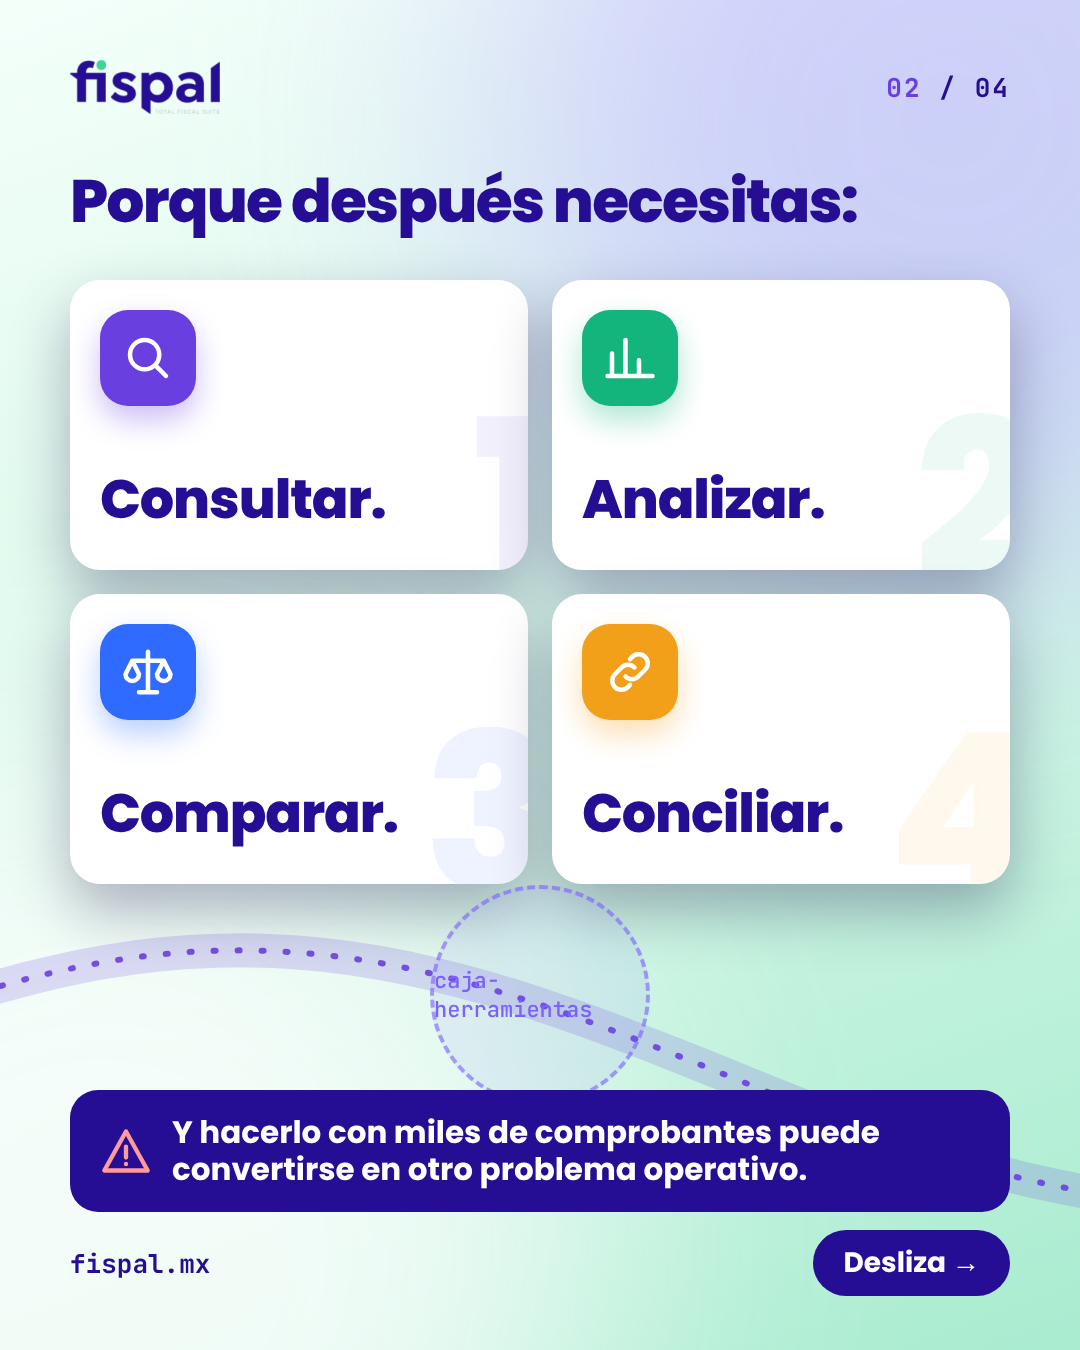
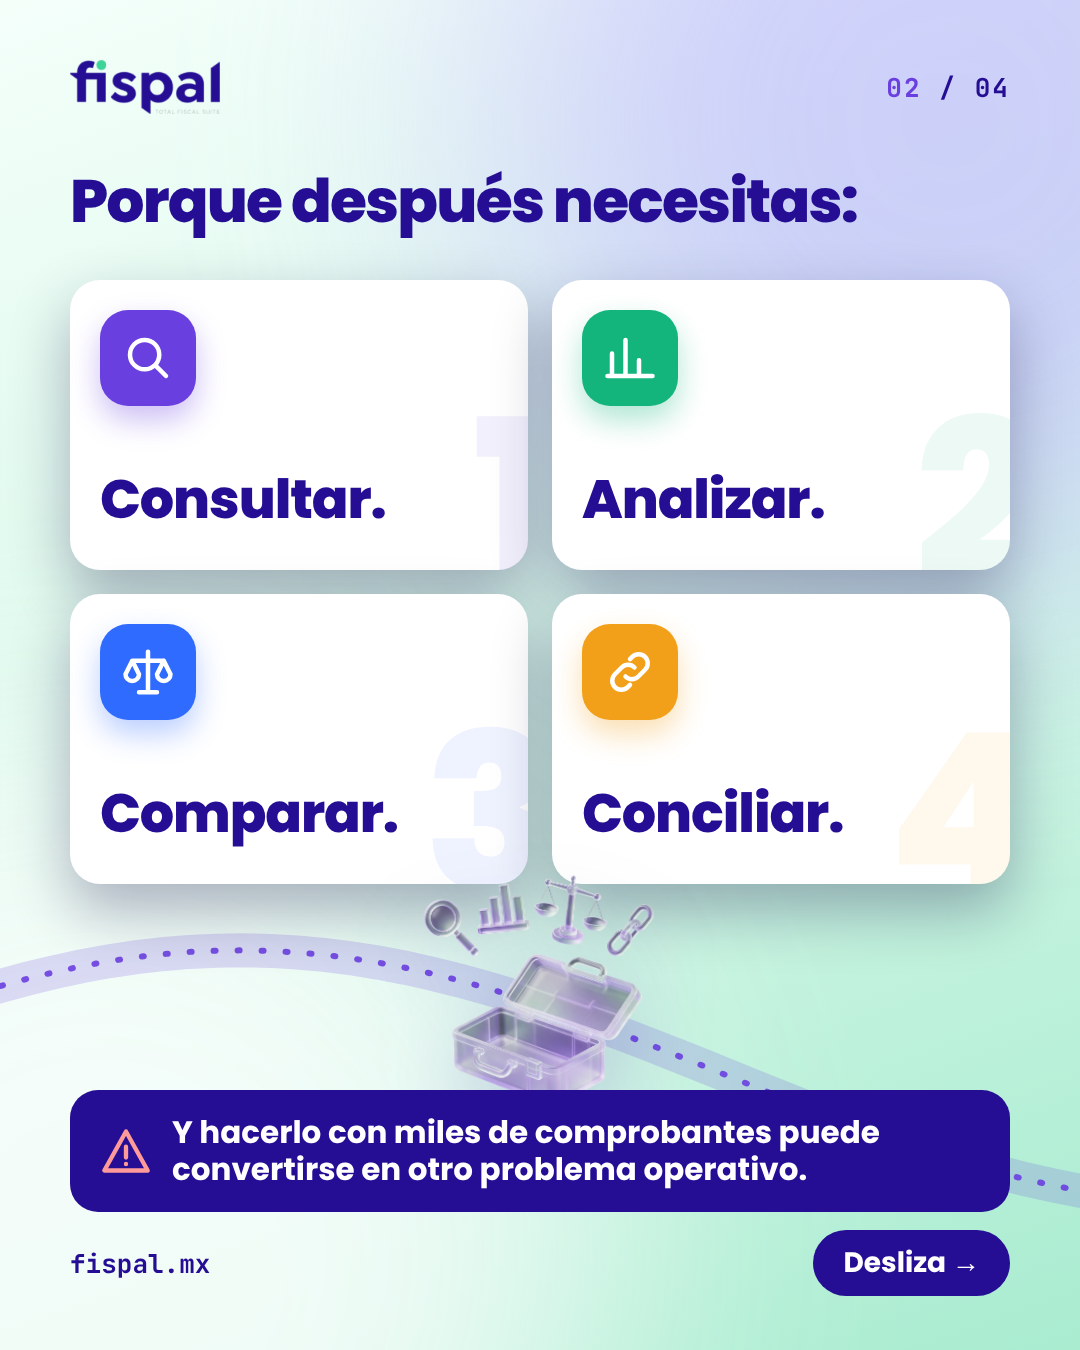
Fispal carrusel 4: fotos e ilustraciones de cristal finales
Claude-Session: https://claude.ai/code/session_01NghCctPQaKXziVeL1FGG6n

Changed region(s): [[0.3972, 0.6533, 0.6111, 0.8089]]

diff --git a/editor/src/carruseles/C4Trabajo.tsx b/editor/src/carruseles/C4Trabajo.tsx
@@ -28,7 +28,7 @@ const S1: React.FC = () => (
       <div style={{ fontWeight: 800, fontSize: 190, lineHeight: 0.95, letterSpacing: "-0.05em", color: V }}>miles</div>
       <div style={{ fontWeight: 800, fontSize: 64, letterSpacing: "-0.02em" }}>de CFDI.</div>
     </div>
-    <Glass3D name="montana-cfdi" x={780} y={780} size={600} />
+    <Glass3D name="montana-cfdi" x={780} y={720} size={600} />
     <div style={{ position: "absolute", left: 70, top: 760, display: "flex", flexDirection: "column", gap: 12 }}>
       <span style={{ fontFamily: MONO, fontWeight: 700, fontSize: 28, color: P, background: "#fff", borderRadius: 999, padding: "10px 22px", boxShadow: "0 12px 30px rgba(37,14,148,.12)", alignSelf: "flex-start" }}>12,480 CFDI ✓</span>
     </div>
@@ -65,7 +65,7 @@ const S2: React.FC = () => (
         </Card>
       ))}
     </div>
-    <Glass3D name="caja-herramientas" x={540} y={995} size={220} />
+    <Glass3D name="caja-herramientas" x={540} y={985} size={230} />
     <div style={{ position: "absolute", left: 70, right: 70, top: 1090, display: "flex", alignItems: "center", gap: 20, background: P, borderRadius: 28, padding: "24px 30px" }}>
       <Icon d={IC.alert} size={52} color="#FF9A9A" />
       <span style={{ fontFamily: FONT, fontWeight: 700, fontSize: 31, color: "#fff", lineHeight: 1.2 }}>Y hacerlo con miles de comprobantes puede convertirse en otro problema operativo.</span>
@@ -76,7 +76,7 @@ const S2: React.FC = () => (
 /* 3 — split screen: text left, full-bleed photo right */
 const S3: React.FC = () => (
   <Frame t={t} i={2} n={N}>
-    <Photo name="c4-decision" hint="Directora presentando datos" position="45% 30%" radius={0} style={{ left: 600, right: 0, top: 0, bottom: 0, boxShadow: "none" }} />
+    <Photo name="c4-decision" hint="Directora presentando datos" position="28% 40%" radius={0} style={{ left: 600, right: 0, top: 0, bottom: 0, boxShadow: "none" }} />
     <div style={{ position: "absolute", left: 560, top: 0, bottom: 0, width: 120, background: "linear-gradient(90deg, rgba(214,247,232,1), rgba(214,247,232,0))" }} />
     <div style={{ position: "absolute", left: 70, width: 500, top: 190 }}>
       <Title t={t} size={54} parts={[{ hl: "Fispal" }, " reúne distintas herramientas para trabajar con tu información fiscal."]} />
